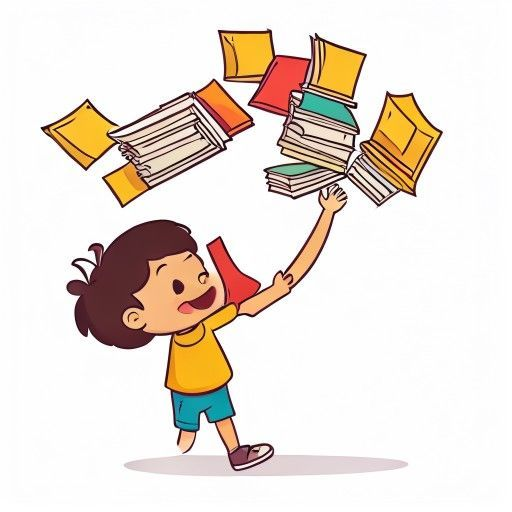
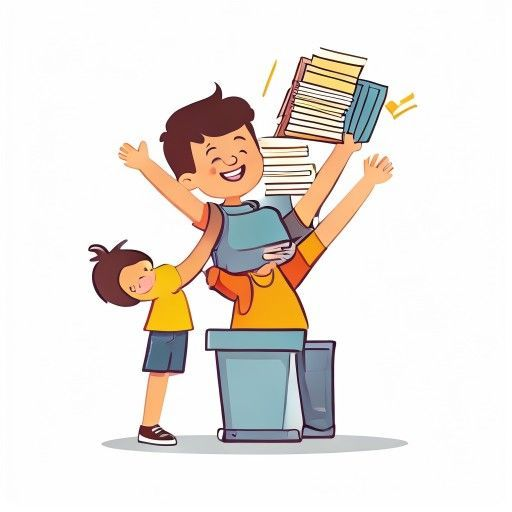
Actually compute the Learning panel instead of freezing zeros
data.setdefault("learning", _empty_learning()) was the only write to this
block, and setdefault fires only when the key is absent — so the hardcoded
stub was written on the first run and never touched again. Nothing computed
learning at all.

The dashboard rendered that faithfully, which is the part that made it hard to
see: the panel read "0 old enough to score · needs 4" while three qualifying
videos sat in the same file, and would have kept reading that no matter how
many were posted. A stub and a genuinely cold start look identical from the
front end.

compute_learning scores every video past min_age_days and ranks themes on MEAN
views per video, not total. Totals would rank whichever theme was posted most,
which is the same age-and-volume bias the maturity gate exists to remove, just
moved to the other axis. A theme under min_per_option is counted but gets no
weight — one lucky video is a coincidence, and publishing it as "your best
style" would steer the bot off a sample of one.

Called after the stats loop writes fresh view counts, not before, or it would
score the previous refresh's numbers. Plain assignment, not setdefault.

On the current data this moves the panel from "0 old enough to score" to 3,
with Would You Rather weighted and Who Would Win counted but held back at one
scored video.

diff --git a/tools/test_learning.py b/tools/test_learning.py
@@ -1,0 +1,99 @@
+"""compute_learning: the dashboard's Learning panel was frozen at zeros.
+
+`data.setdefault("learning", _empty_learning())` was the only write, and
+setdefault fires only when the key is absent — so the stub was written on run
+one and never recomputed. The panel read "0 old enough to score" with three
+qualifying videos in the same file, and would have forever.
+"""
+import ast
+import datetime
+import os
+import sys
+
+sys.path.insert(0, os.path.dirname(os.path.dirname(os.path.abspath(__file__))))
+
+# Load compute_learning without importing dashboard.py (it pulls in content/config).
+_SRC = open(os.path.join(os.path.dirname(os.path.dirname(os.path.abspath(__file__))),
+                         "dashboard.py"), encoding="utf-8").read()
+_NS = {"datetime": datetime}
+for _node in ast.parse(_SRC).body:
+    if isinstance(_node, ast.Assign) or (
+            isinstance(_node, ast.FunctionDef) and _node.name == "compute_learning"):
+        try:
+            exec(compile(ast.Module([_node], []), "<dashboard>", "exec"), _NS)
+        except Exception:
+            pass
+compute_learning = _NS["compute_learning"]
+
+NOW = datetime.datetime.now(datetime.timezone.utc)
+
+
+def vid(days_old, theme, views):
+    return {"date": (NOW - datetime.timedelta(days=days_old)).isoformat(),
+            "theme": theme, "views": views}
+
+
+def test_only_mature_videos_score():
+    v = [vid(0.2, "A", 999), vid(2.9, "A", 999), vid(3.1, "A", 10), vid(9, "A", 20)]
+    out = compute_learning(v)
+    assert out["trained_on"] == 2, out          # 3.1d and 9d only
+    assert out["counts"]["theme"]["A"] == 2
+    print("only videos past min_age_days are scored          OK")
+
+
+def test_ranks_on_mean_not_total():
+    """Totals would just rank whichever theme was posted most — the same
+    age-bias the maturity gate exists to remove, moved to the other axis."""
+    v = [vid(5, "Posted a lot", 100), vid(5, "Posted a lot", 100),
+         vid(5, "Posted a lot", 100), vid(5, "Posted a lot", 100),
+         vid(5, "Actually better", 500), vid(5, "Actually better", 500)]
+    out = compute_learning(v)
+    assert out["best_theme"] == "Actually better", out["themes"]
+    assert out["themes"]["Actually better"] > out["themes"]["Posted a lot"]
+    print("ranks on mean views, not volume                   OK")
+
+
+def test_thin_theme_gets_no_weight():
+    """One lucky video is a coincidence; publishing it as 'your best style'
+    would steer the bot off a sample of one."""
+    v = [vid(5, "Solid", 100), vid(5, "Solid", 100), vid(5, "Fluke", 99999)]
+    out = compute_learning(v)
+    assert "Fluke" not in out["themes"], out["themes"]
+    assert out["best_theme"] == "Solid"
+    assert out["counts"]["theme"]["Fluke"] == 1, "still counted, just not weighted"
+    print("a single-video theme is counted but not weighted  OK")
+
+
+def test_ready_requires_enough_scored():
+    thin = compute_learning([vid(5, "A", 10), vid(5, "A", 10), vid(5, "A", 10)])
+    assert thin["trained_on"] == 3 and not thin["ready"], thin
+    ok = compute_learning([vid(5, "A", 10), vid(5, "A", 10),
+                           vid(5, "B", 20), vid(5, "B", 20)])
+    assert ok["trained_on"] == 4 and ok["ready"], ok
+    print("ready flips only at NEEDS scored videos           OK")
+
+
+def test_survives_junk_records():
+    v = [vid(5, "A", 10), vid(5, "A", 10),
+         {"date": "not-a-date", "theme": "A", "views": 5},
+         {"theme": "A", "views": 5},                    # no date
+         {"date": (NOW - datetime.timedelta(days=5)).isoformat(), "views": 5},  # no theme
+         {"date": (NOW - datetime.timedelta(days=5)).isoformat(),
+          "theme": "A", "views": None}]                 # never-fetched views
+    out = compute_learning(v)
+    assert out["trained_on"] == 3, out   # two good + the None-views one
+    print("unparseable / incomplete records are skipped      OK")
+
+
+def test_no_videos_is_not_a_crash():
+    out = compute_learning([])
+    assert out["trained_on"] == 0 and out["themes"] == {} and not out["ready"]
+    assert compute_learning(None)["trained_on"] == 0
+    print("empty and None inputs return an honest zero       OK")
+
+
+for fn in (test_only_mature_videos_score, test_ranks_on_mean_not_total,
+           test_thin_theme_gets_no_weight, test_ready_requires_enough_scored,
+           test_survives_junk_records, test_no_videos_is_not_a_crash):
+    fn()
+print("\nPASS")

diff --git a/dashboard.py b/dashboard.py
@@ -188,6 +188,68 @@ def _empty_learning() -> dict:
             "min_per_option": 2, "themes": {}, "counts": {"theme": {}}}
 
 
+# A video is only scored once it has had this long to accumulate views, so a
+# video posted an hour ago cannot lose to one posted last week purely on age.
+MIN_AGE_DAYS = 3.0
+NEEDS = 4              # scored videos before the panel calls itself ready
+MIN_PER_OPTION = 2     # scored videos per theme before that theme gets a weight
+
+
+def compute_learning(videos: list) -> dict:
+    """Score the posted videos and report which themes actually perform.
+
+    This was never implemented. `data.setdefault("learning", _empty_learning())`
+    was the ONLY write, and setdefault only fires when the key is absent — so
+    the hardcoded zeros were written once and then frozen. The dashboard panel
+    rendered them faithfully, which is why it read "0 old enough to score" with
+    three qualifying videos sitting in the same file, and would have kept
+    reading that forever no matter how many were posted.
+
+    Themes are compared on MEAN views per video, not total. Totals just rank
+    whichever theme was posted most, which is the bias the age gate above exists
+    to remove — reintroducing it on the other axis would be pointless.
+    """
+    now = datetime.datetime.now(datetime.timezone.utc)
+    scored = []
+    for v in videos or []:
+        raw = v.get("date")
+        if not raw or not v.get("theme"):
+            continue
+        try:
+            posted = datetime.datetime.fromisoformat(str(raw).replace("Z", "+00:00"))
+        except ValueError:
+            continue
+        if posted.tzinfo is None:
+            posted = posted.replace(tzinfo=datetime.timezone.utc)
+        if (now - posted).total_seconds() / 86400.0 >= MIN_AGE_DAYS:
+            scored.append((v["theme"], int(v.get("views") or 0)))
+
+    counts: dict = {}
+    totals: dict = {}
+    for theme, views in scored:
+        counts[theme] = counts.get(theme, 0) + 1
+        totals[theme] = totals.get(theme, 0) + views
+
+    # Only themes with enough scored videos get a weight. One lucky video is a
+    # coincidence, and publishing it as "your best style" would steer the bot
+    # off a sample of one.
+    means = {t: totals[t] / counts[t] for t in counts if counts[t] >= MIN_PER_OPTION}
+    total_mean = sum(means.values())
+    themes = ({t: m / total_mean for t, m in means.items()} if total_mean
+              else {t: 0.0 for t in means})
+
+    return {
+        "ready": len(scored) >= NEEDS and bool(themes),
+        "trained_on": len(scored),
+        "needs": NEEDS,
+        "min_age_days": MIN_AGE_DAYS,
+        "min_per_option": MIN_PER_OPTION,
+        "themes": dict(sorted(themes.items(), key=lambda kv: -kv[1])),
+        "counts": {"theme": counts},
+        "best_theme": max(themes, key=themes.get) if themes else "",
+    }
+
+
 def _fill_schedule(data: dict) -> None:
     """Write the next few post times so the dashboard's 'NEXT SHORT DROPS IN'
     countdown has something to count to. It was always [], so the timer was blank.
@@ -261,6 +323,12 @@ def refresh_stats() -> dict:
             hist[-1] = snap
         else:
             hist.append(snap)
+
+    # Recompute learning from the view counts we just pulled — AFTER the loop
+    # above writes them, not before, or it would score the previous refresh's
+    # numbers. Plain assignment, not setdefault: setdefault is what froze this
+    # block at zeros in the first place, since the key exists from run one.
+    data["learning"] = compute_learning(data["videos"])
 
     _fill_schedule(data)
     data["updated"] = _iso()